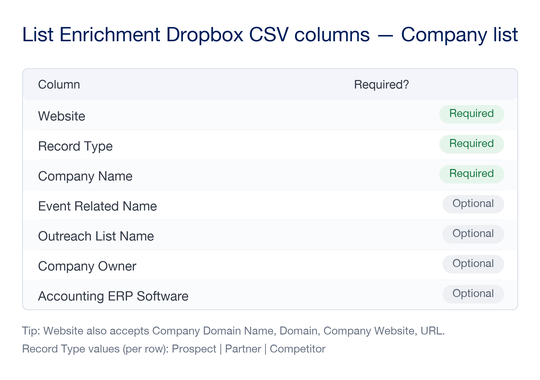
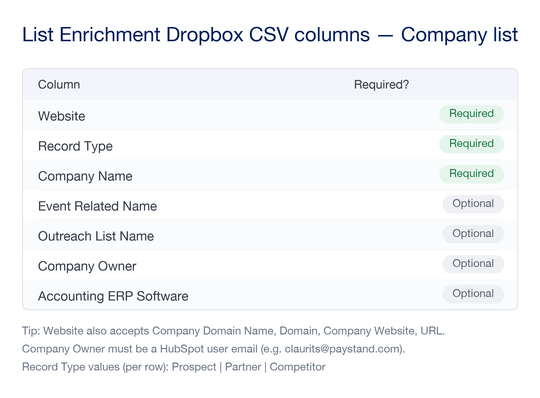
Clarify Contact Owner / Company Owner must be HS user emails
Format guides now include a footer tip explaining the owner fields take
a HubSpot user email (e.g. [email redacted]), not a name. Sample
CSVs updated to demonstrate the correct value format.

diff --git a/scripts/generate_format_image.py b/scripts/generate_format_image.py
@@ -121,7 +121,7 @@ def _render(list_type: str, out_path: Path) -> tuple[int, int]:
     col1_pad = 16
     col2_w = 160
     pad = 22
-    footer_h = 48
+    footer_h = 66  # extra line for owner-format tip
     rows = _build_rows(list_type)
 
     w = 540
@@ -248,6 +248,16 @@ def _render(list_type: str, out_path: Path) -> tuple[int, int]:
         f"Tip: {DOMAIN_DISPLAY_HEADER} also accepts Company Domain Name, "
         "Domain, Company Website, URL."
     )
+    if list_type == LIST_TYPE_CONTACTS:
+        owner_tip = (
+            "Owner fields must be HubSpot user emails "
+            "(e.g. [email redacted])."
+        )
+    else:
+        owner_tip = (
+            "Company Owner must be a HubSpot user email "
+            "(e.g. [email redacted])."
+        )
     draw.text(
         (table_left, fy),
         domain_tip,
@@ -256,6 +266,12 @@ def _render(list_type: str, out_path: Path) -> tuple[int, int]:
     )
     draw.text(
         (table_left, fy + 18 * SCALE),
+        owner_tip,
+        fill=COLOR_TEXT_MUTED,
+        font=footer_font,
+    )
+    draw.text(
+        (table_left, fy + 36 * SCALE),
         f"Record Type values (per row): {' | '.join(RECORD_TYPES)}",
         fill=COLOR_TEXT_MUTED,
         font=footer_font,